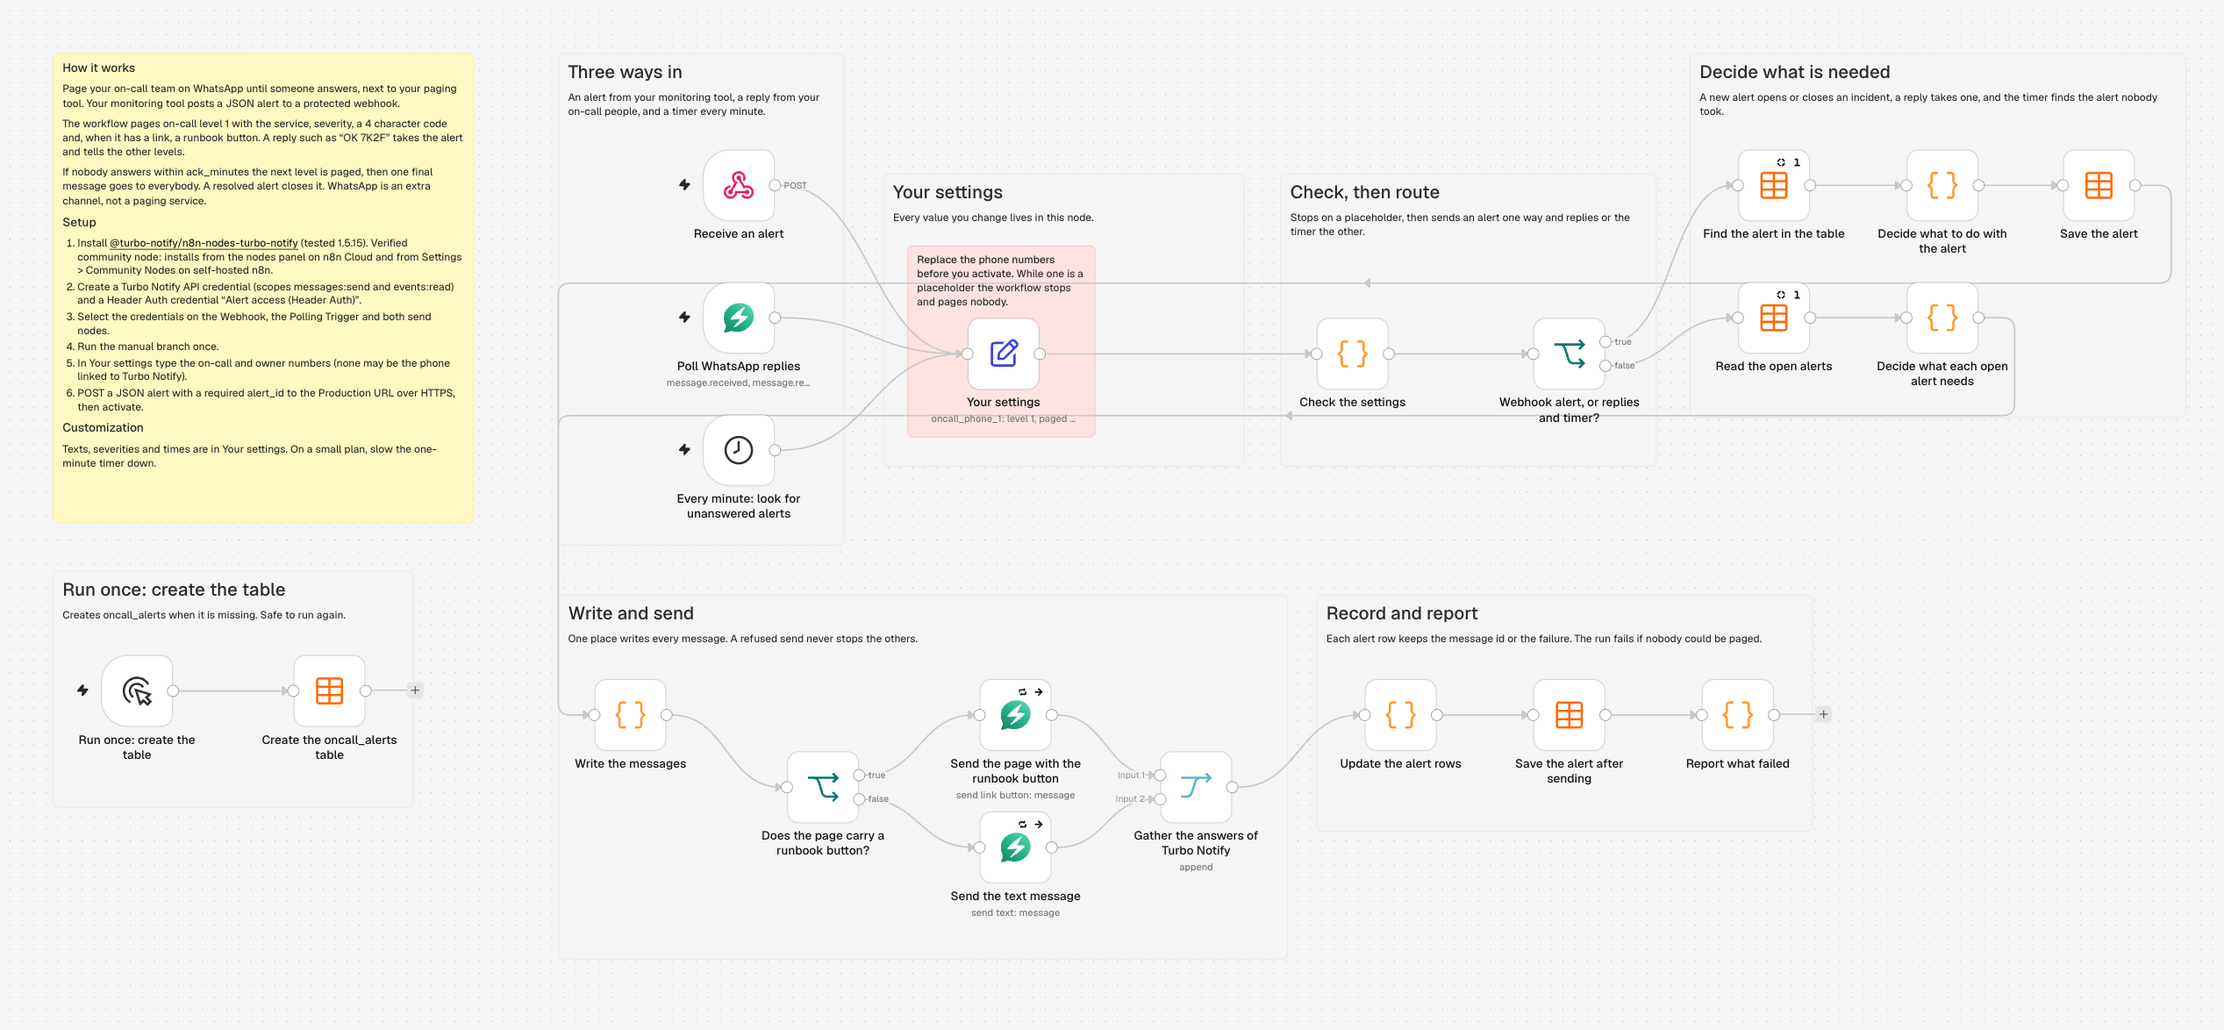
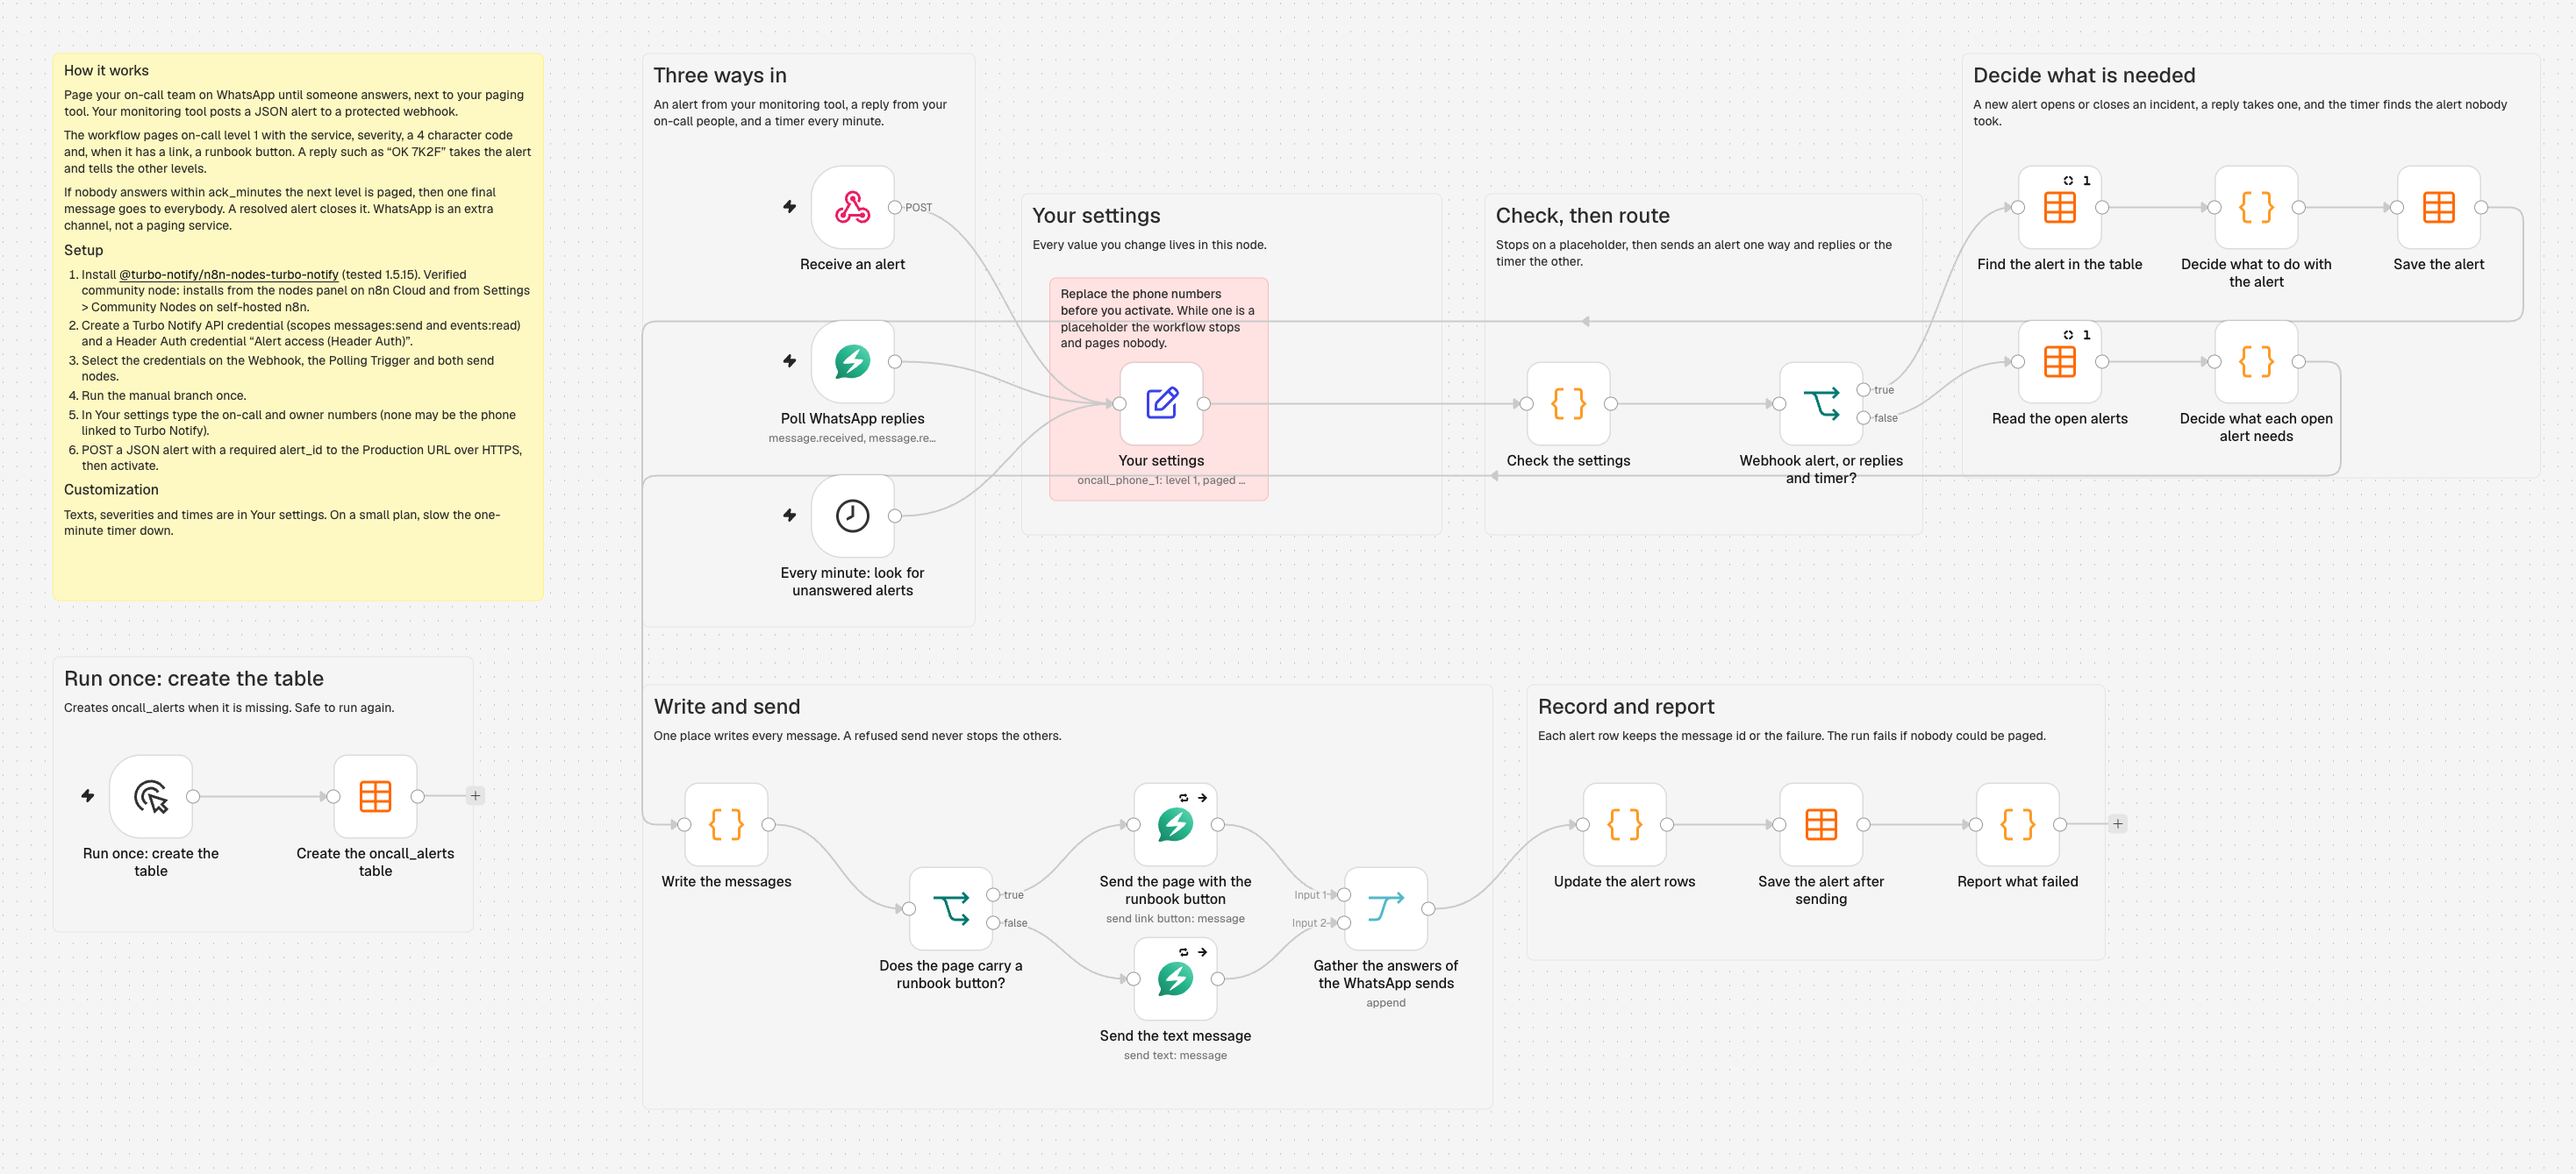
fix: name the merge node of the on-call and NPS templates by what it gathers (WhatsApp sends) instead of the product, with the README hashes and canvas images

diff --git a/templates/oncall-alerts-escalation/README.md b/templates/oncall-alerts-escalation/README.md
@@ -69,7 +69,7 @@ Live flow (21 working nodes, plus 9 notes):
 13. `Does the page carry a runbook button?` (If)
 14. `Send the page with the runbook button` (Turbo Notify: Send Link Button, Continue On Fail, three tries)
 15. `Send the text message` (Turbo Notify: Send Text, Continue On Fail, three tries)
-16. `Gather the answers of Turbo Notify` (Merge)
+16. `Gather the answers of the WhatsApp sends` (Merge)
 17. `Update the alert rows` (Code: matches each answer with its message, keeps only the columns this run owns)
 18. `Save the alert after sending` (Data Table upsert of those columns)
 19. `Report what failed` (Code: fails the run when any message was refused)
@@ -218,9 +218,10 @@ Tested end to end from the exact `workflow.json` (SHA-256 below), in a fresh thr
 | | |
 |---|---|
 | Date | 2026-11-18 |
[5 lines of base64/hex data omitted]
 | n8n | 2.45.5 (image `n8nio/n8n:2.45.5`, id `sha256:9f6d0a5987ab5a297c4b0b38fbf1a22285dd1364551478e93f03d506908fa74c`) |
 | Package | `@turbo-notify/n8n-nodes-turbo-notify` 1.5.15 (built from this repository) |
 | Mock API | `templates/harness/mock-api.mjs`, same routes, answers, events and errors as `public-docs-web/public/openapi.json` |

diff --git a/templates/post-purchase-nps-survey/README.md b/templates/post-purchase-nps-survey/README.md
@@ -75,7 +75,7 @@ Live flow (24 working nodes, plus 9 notes):
 16. `Send the text` (Turbo Notify: Send Text, Continue On Fail)
 17. `Send the thank you with the review button` (Turbo Notify: Send Link Button, Continue On Fail)
 18. `Send the contact card to the owner` (Turbo Notify: Send Contact Card, Continue On Fail)
-19. `Gather the answers of Turbo Notify` (Merge, three inputs)
+19. `Gather the answers of the WhatsApp sends` (Merge, three inputs)
 20. `Record the answers` (Code: matches each answer with its message, writes the id or the failure)
 21. `Save the survey after sending` (Data Table upsert)
 22. `Report what failed` (Code: fails the run when a message was refused)
@@ -228,9 +228,10 @@ Tested end to end from the exact `workflow.json` (SHA-256 below), in a fresh thr
 | | |
 |---|---|
 | Date | 2026-11-18 |
[5 lines of base64/hex data omitted]
 | n8n | 2.45.5 (image `n8nio/n8n:2.45.5`, id `sha256:9f6d0a5987ab5a297c4b0b38fbf1a22285dd1364551478e93f03d506908fa74c`), time zone `America/Sao_Paulo` |
 | Package | `@turbo-notify/n8n-nodes-turbo-notify` 1.5.15 (built from this repository) |
 | Mock API | `templates/harness/mock-api.mjs`, same routes, answers, events and errors as `public-docs-web/public/openapi.json` |
